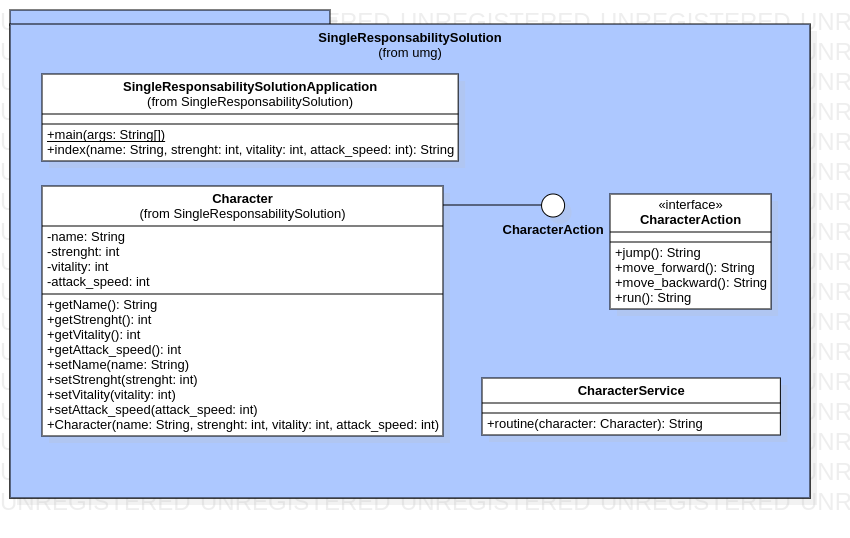
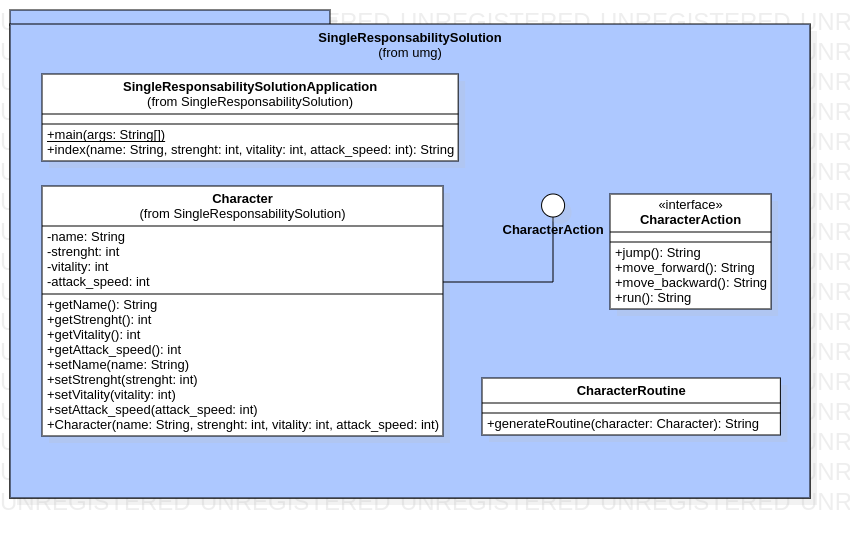
Corrección de codigo segun sonarqube y cambio en diagramas

diff --git a/SingleResponsabilitySolution/src/main/java/gt/edu/umg/SingleResponsabilitySolution/Character.java b/SingleResponsabilitySolution/src/main/java/gt/edu/umg/SingleResponsabilitySolution/Character.java
@@ -1,43 +1,19 @@
 package gt.edu.umg.SingleResponsabilitySolution;
 
-import java.util.*;
-
-/**
- * 
- */
 public class Character implements CharacterAction {
 
-    /**
-     * Default constructor
-     */
-    public Character() {
-    }
-
-    /**
-     * 
-     */
     private String name;
 
-    /**
-     * 
-     */
     private int strenght;
-
-    /**
-     * 
-     */
+    
     private int vitality;
-
-    /**
-     * 
-     */
+    
     private int attack_speed;
 
     /**
      * @return
      */
     public String getName() {
-        // TODO implement here
         return name;
     }
 
@@ -45,7 +21,6 @@ public class Character implements CharacterAction {
      * @return
      */
     public int getStrenght() {
-        // TODO implement here
         return strenght;
     }
 
@@ -53,7 +28,6 @@ public class Character implements CharacterAction {
      * @return
      */
     public int getVitality() {
-        // TODO implement here
         return vitality;
     }
 
@@ -61,7 +35,6 @@ public class Character implements CharacterAction {
      * @return
      */
     public int getAttack_speed() {
-        // TODO implement here
         return attack_speed;
     }
 
@@ -69,7 +42,6 @@ public class Character implements CharacterAction {
      * @param name
      */
     public void setName(String name) {
-        // TODO implement here
         this.name = name;
     }
 
@@ -77,7 +49,6 @@ public class Character implements CharacterAction {
      * @param strenght
      */
     public void setStrenght(int strenght) {
-        // TODO implement here
         this.strenght = strenght;
     }
 
@@ -85,7 +56,6 @@ public class Character implements CharacterAction {
      * @param vitality
      */
     public void setVitality(int vitality) {
-        // TODO implement here
         this.vitality = vitality;
     }
 
@@ -93,7 +63,6 @@ public class Character implements CharacterAction {
      * @param attack_speed
      */
     public void setAttack_speed(int attack_speed) {
-        // TODO implement here
         this.attack_speed = attack_speed;
     }
     
@@ -116,7 +85,6 @@ public class Character implements CharacterAction {
      */
     @Override
     public String jump() {
-        // TODO implement here
         return " is jumping";
     }
 
@@ -125,7 +93,6 @@ public class Character implements CharacterAction {
      */
     @Override
     public String move_forward() {
-        // TODO implement here
         return " is moving forward";
     }
 
@@ -134,7 +101,6 @@ public class Character implements CharacterAction {
      */
     @Override
     public String move_backward() {
-        // TODO implement here
         return " is moving backward";
     }
 
@@ -143,7 +109,6 @@ public class Character implements CharacterAction {
      */
     @Override
     public String run() {
-        // TODO implement here
         return " is running";
     }
 

diff --git a/SingleResponsabilitySolution/src/main/java/gt/edu/umg/SingleResponsabilitySolution/SingleResponsabilitySolutionApplication.java b/SingleResponsabilitySolution/src/main/java/gt/edu/umg/SingleResponsabilitySolution/SingleResponsabilitySolutionApplication.java
@@ -1,31 +1,19 @@
 package gt.edu.umg.SingleResponsabilitySolution;
 
-import java.util.*;
 import org.springframework.boot.SpringApplication;
 import org.springframework.boot.autoconfigure.SpringBootApplication;
-import org.springframework.web.bind.annotation.RequestMapping;
+import org.springframework.web.bind.annotation.GetMapping;
 import org.springframework.web.bind.annotation.RequestParam;
 import org.springframework.web.bind.annotation.RestController;
 
-/**
- * 
- */
 @SpringBootApplication
 
 @RestController
 public class SingleResponsabilitySolutionApplication {
-
-    /**
-     * Default constructor
-     */
-    public SingleResponsabilitySolutionApplication() {
-    }
-
     /**
      * @param args
      */
     public static void main(String[] args) {
-        // TODO implement here
         SpringApplication.run(SingleResponsabilitySolutionApplication.class, args);
     }
 
@@ -36,20 +24,13 @@ public class SingleResponsabilitySolutionApplication {
      * @param attack_speed 
      * @return
      */
-    /* SingleResponsabilitySolutionApplication ahora solo esta encargado de crear instancias y responder al usuario*/
-    @RequestMapping("/")
+    @GetMapping("/")
     public String index(@RequestParam(defaultValue = "Mike") String name,
             @RequestParam(defaultValue = "1") int strenght, 
             @RequestParam(defaultValue = "10") int vitality, 
             @RequestParam(defaultValue = "1") int attack_speed) {
-        // TODO implement here
-        String texto = new String();
-        Character npc = new Character(name, strenght, vitality, attack_speed); 
-        CharacterService genereteroutine = new CharacterService();
-        
-        texto += genereteroutine.routine(npc);        
-        
-        return texto;
+            
+        return new CharacterRoutine().generateRoutine(new Character(name, strenght, vitality, attack_speed));
     }
 
 }

diff --git a/SingleResponsabilitySolution/src/main/java/gt/edu/umg/SingleResponsabilitySolution/CharacterRoutine.java b/SingleResponsabilitySolution/src/main/java/gt/edu/umg/SingleResponsabilitySolution/CharacterRoutine.java
@@ -1,24 +1,12 @@
 package gt.edu.umg.SingleResponsabilitySolution;
 
-import java.util.*;
-
-/**
- * 
- */
-public class CharacterService {
-
-    /**
-     * Default constructor
-     */
-    public CharacterService() {
-    }
+public class CharacterRoutine {
 
     /**
      * @param character 
      * @return
      */
-    public String routine(Character character) {
-        // TODO implement here
+    public String generateRoutine(Character character) {
         String texto = new String();
         texto += "NPC: "+character.getName()+
                 "<br> Strenght: "+character.getStrenght()+

diff --git a/SingleResponsabilitySolution/src/main/java/gt/edu/umg/SingleResponsabilitySolution/CharacterAction.java b/SingleResponsabilitySolution/src/main/java/gt/edu/umg/SingleResponsabilitySolution/CharacterAction.java
@@ -1,10 +1,5 @@
 package gt.edu.umg.SingleResponsabilitySolution;
 
-import java.util.*;
-
-/**
- * 
- */
 public interface CharacterAction {
 
     /**
